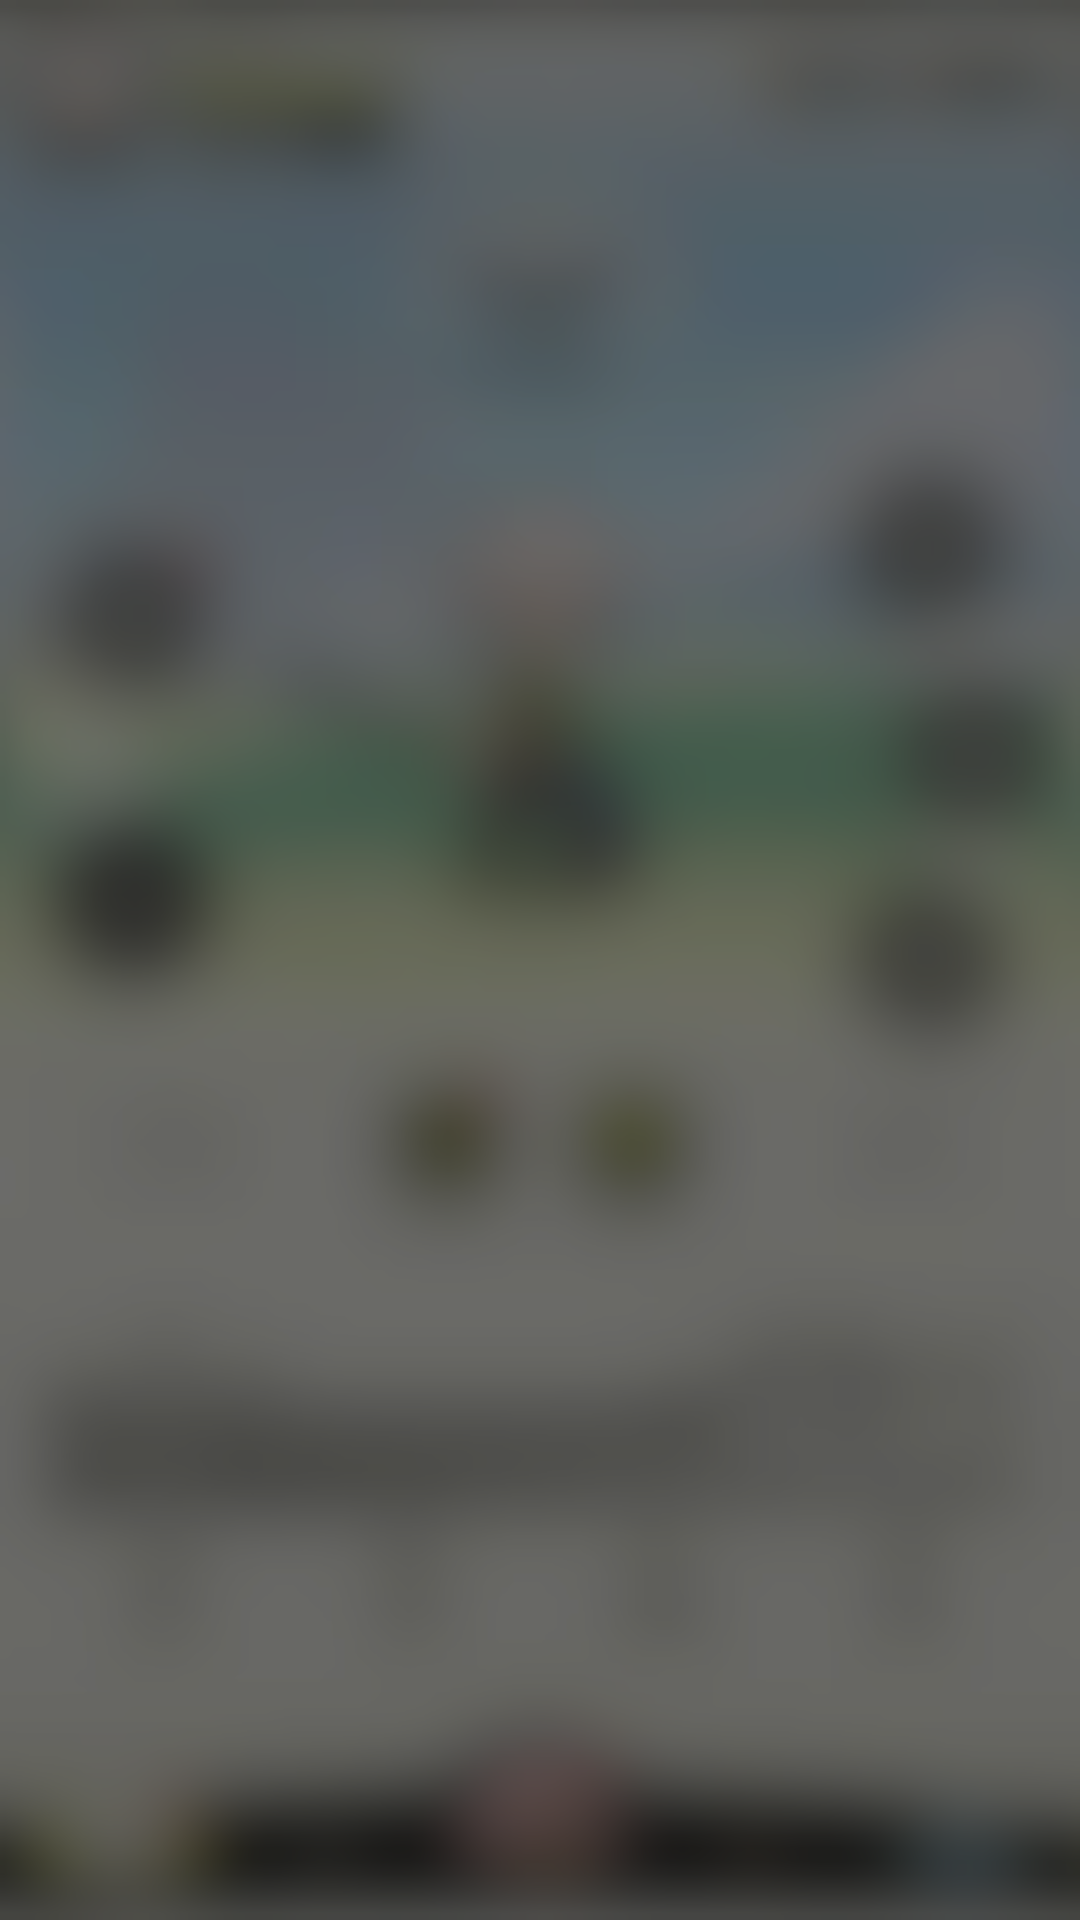
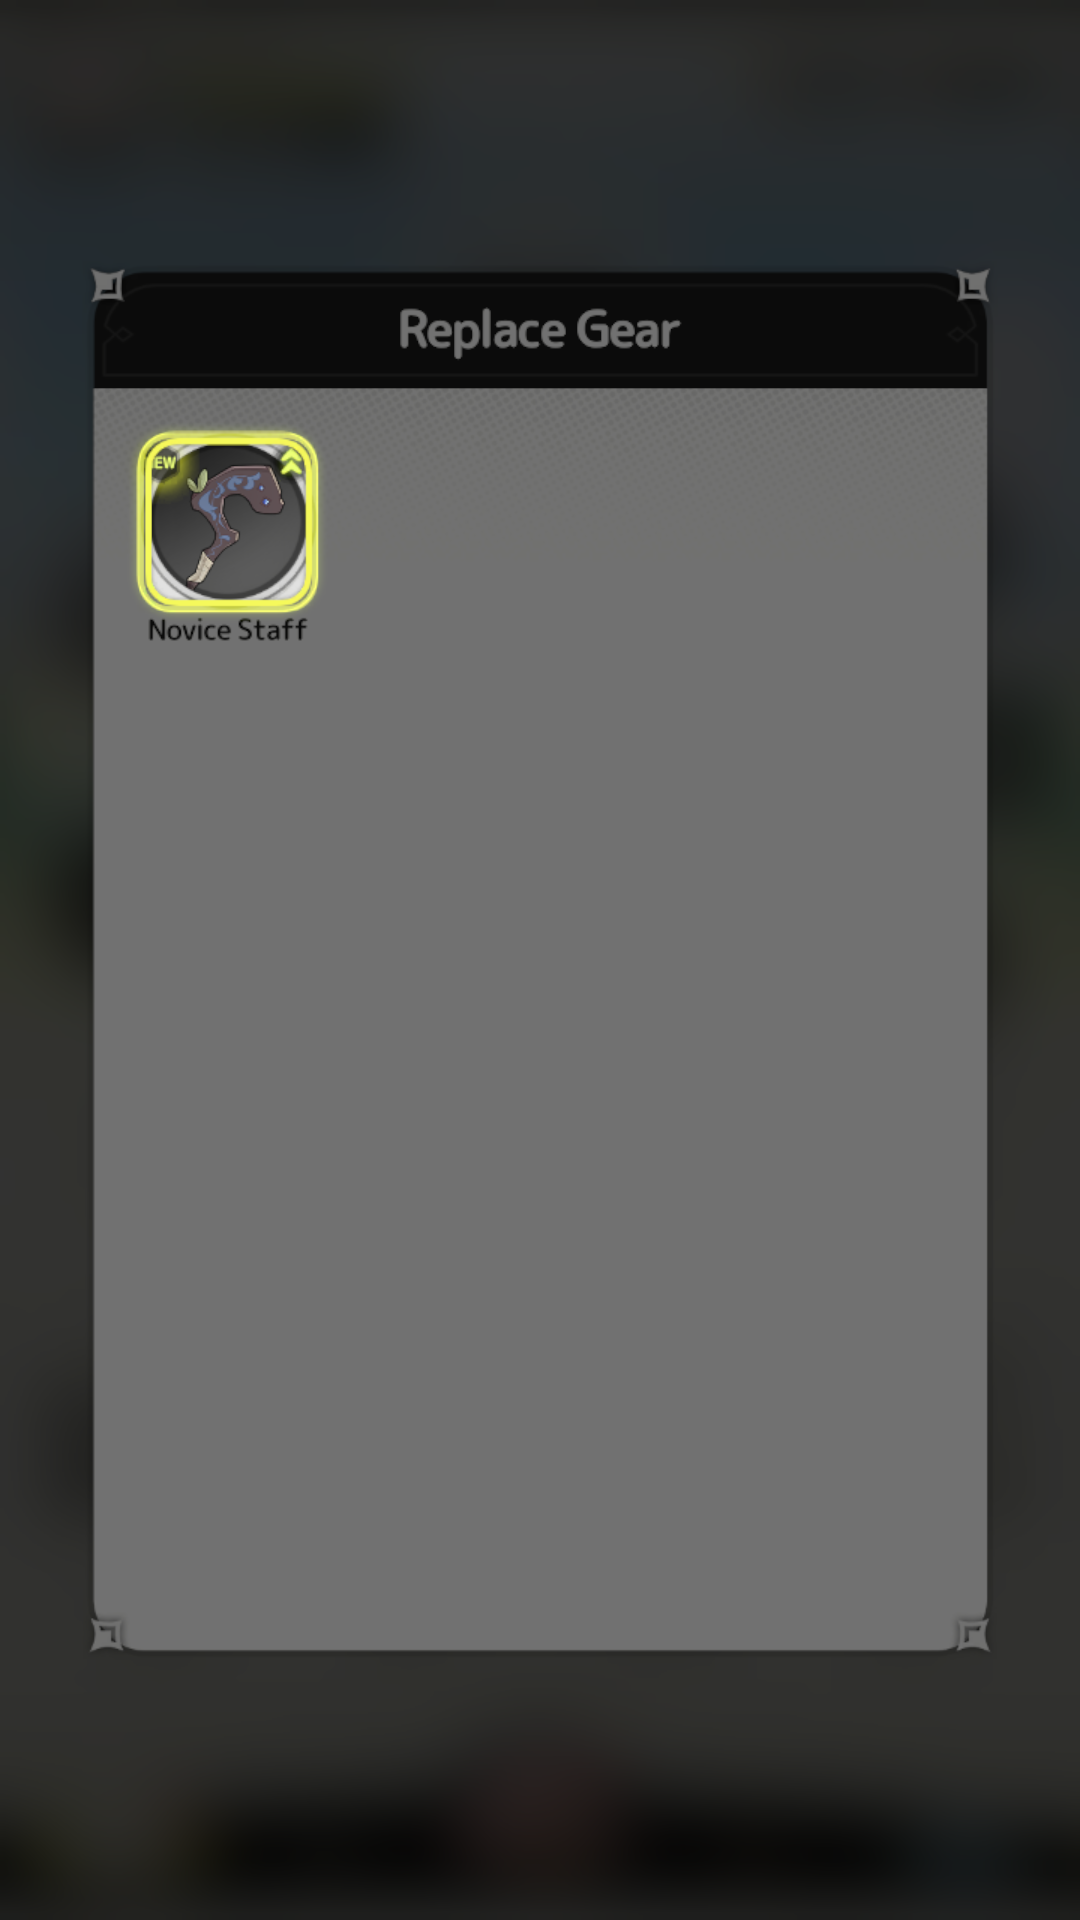
Before: Added Screens.GEAR_DETAILS
BotMaker-Origin: safety

diff --git a/src/main/java/com/swordxstaff/plugins/com_github_botmakerdev/botmaker_sdk/Screens.java b/src/main/java/com/swordxstaff/plugins/com_github_botmakerdev/botmaker_sdk/Screens.java
@@ -724,10 +724,13 @@ public final class Screens {
     public static final Character CHARACTER = new Character();
 
     public static final class ReplaceGear extends Screen {
+        public final Button gearNoviceStaff = Button.of(Pictures.GEAR_NOVICE_STAFF);
+
         @Override
         public Setup setup() {
             return Setup
                     .named("Replace gear")
+                    .markers(List.of(Pictures.REPLACE_GEAR_CORNER))
                     .takes(Duration.ofMillis(5100L))
                     .shot("screens/EQUIP_WEAPON.png")
                     .from(Screens.CHARACTER.charGearSlot)

diff --git a/src/main/java/com/swordxstaff/plugins/com_github_botmakerdev/botmaker_sdk/Pictures.java b/src/main/java/com/swordxstaff/plugins/com_github_botmakerdev/botmaker_sdk/Pictures.java
@@ -161,6 +161,10 @@ public final class Pictures {
             .at(new Rect(582, 1088, 106, 80));
     public static final ImageTemplate CHAR_GEAR_SLOT = new ImageTemplate("images/char_gear_slot.png")
             .at(new Rect(98, 578, 74, 74));
+    public static final ImageTemplate REPLACE_GEAR_CORNER = new ImageTemplate("images/replace_gear_corner.png")
+            .at(new Rect(86, 266, 38, 38));
+    public static final ImageTemplate GEAR_NOVICE_STAFF = new ImageTemplate("images/gear_novice_staff.png")
+            .at(new Rect(165, 460, 126, 128));
     private Pictures() {
     }
 }
